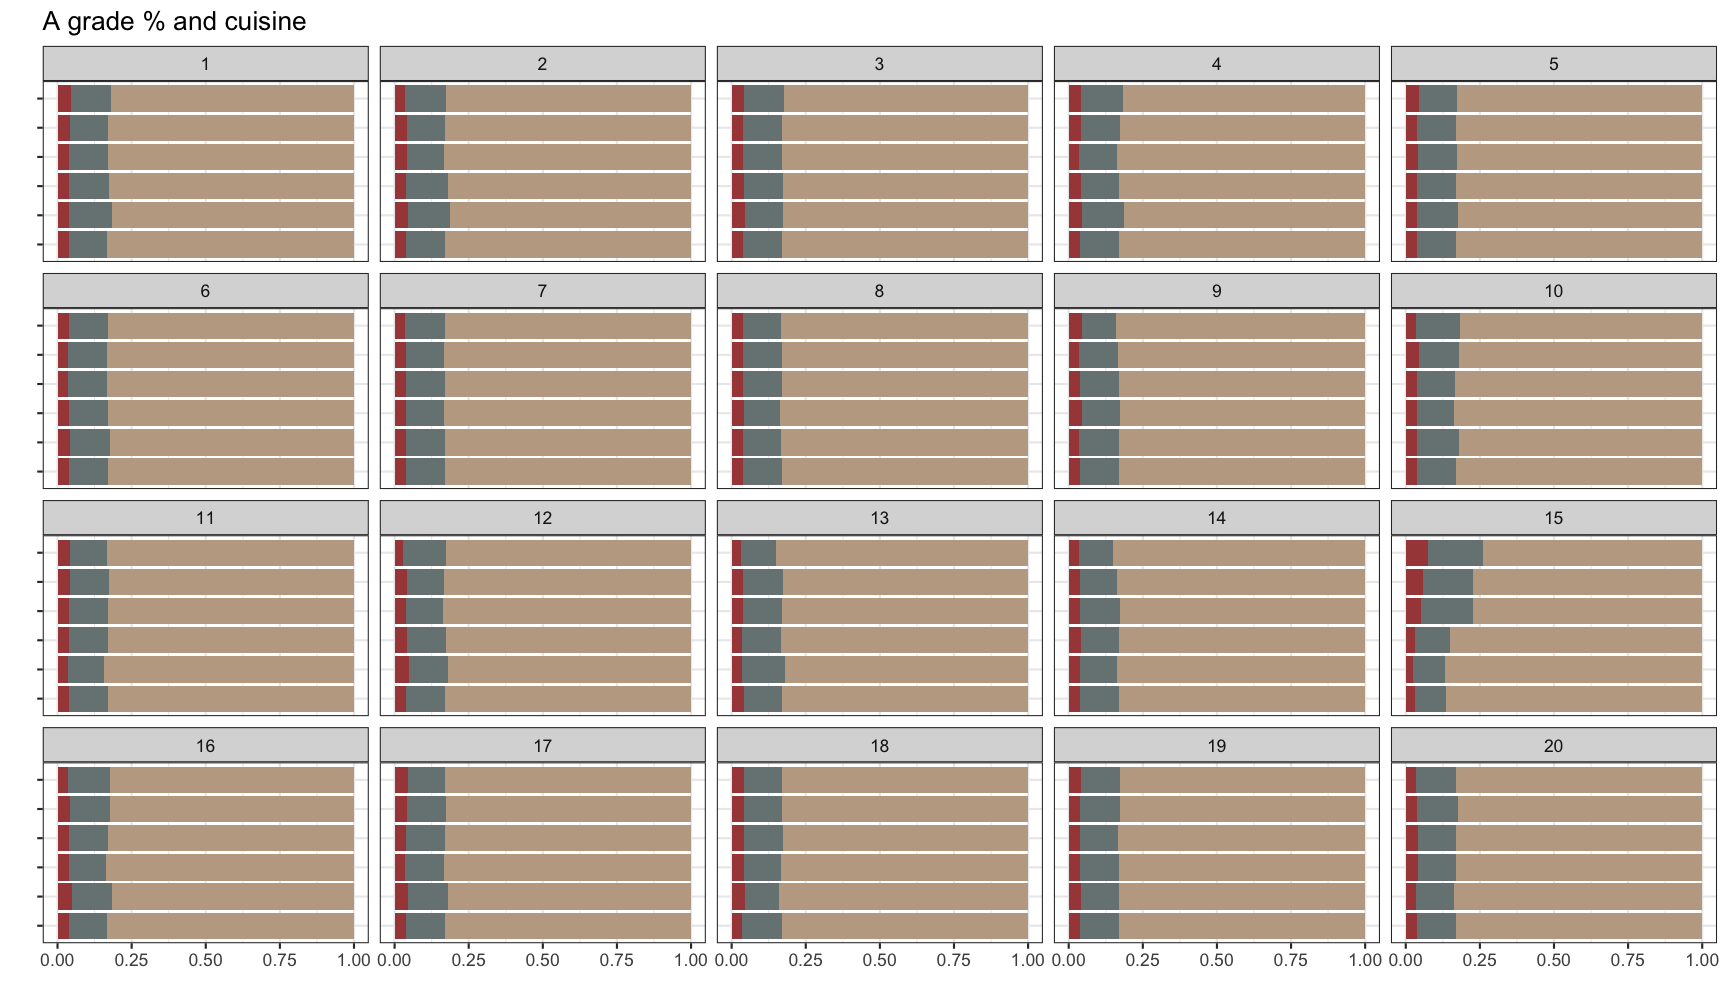
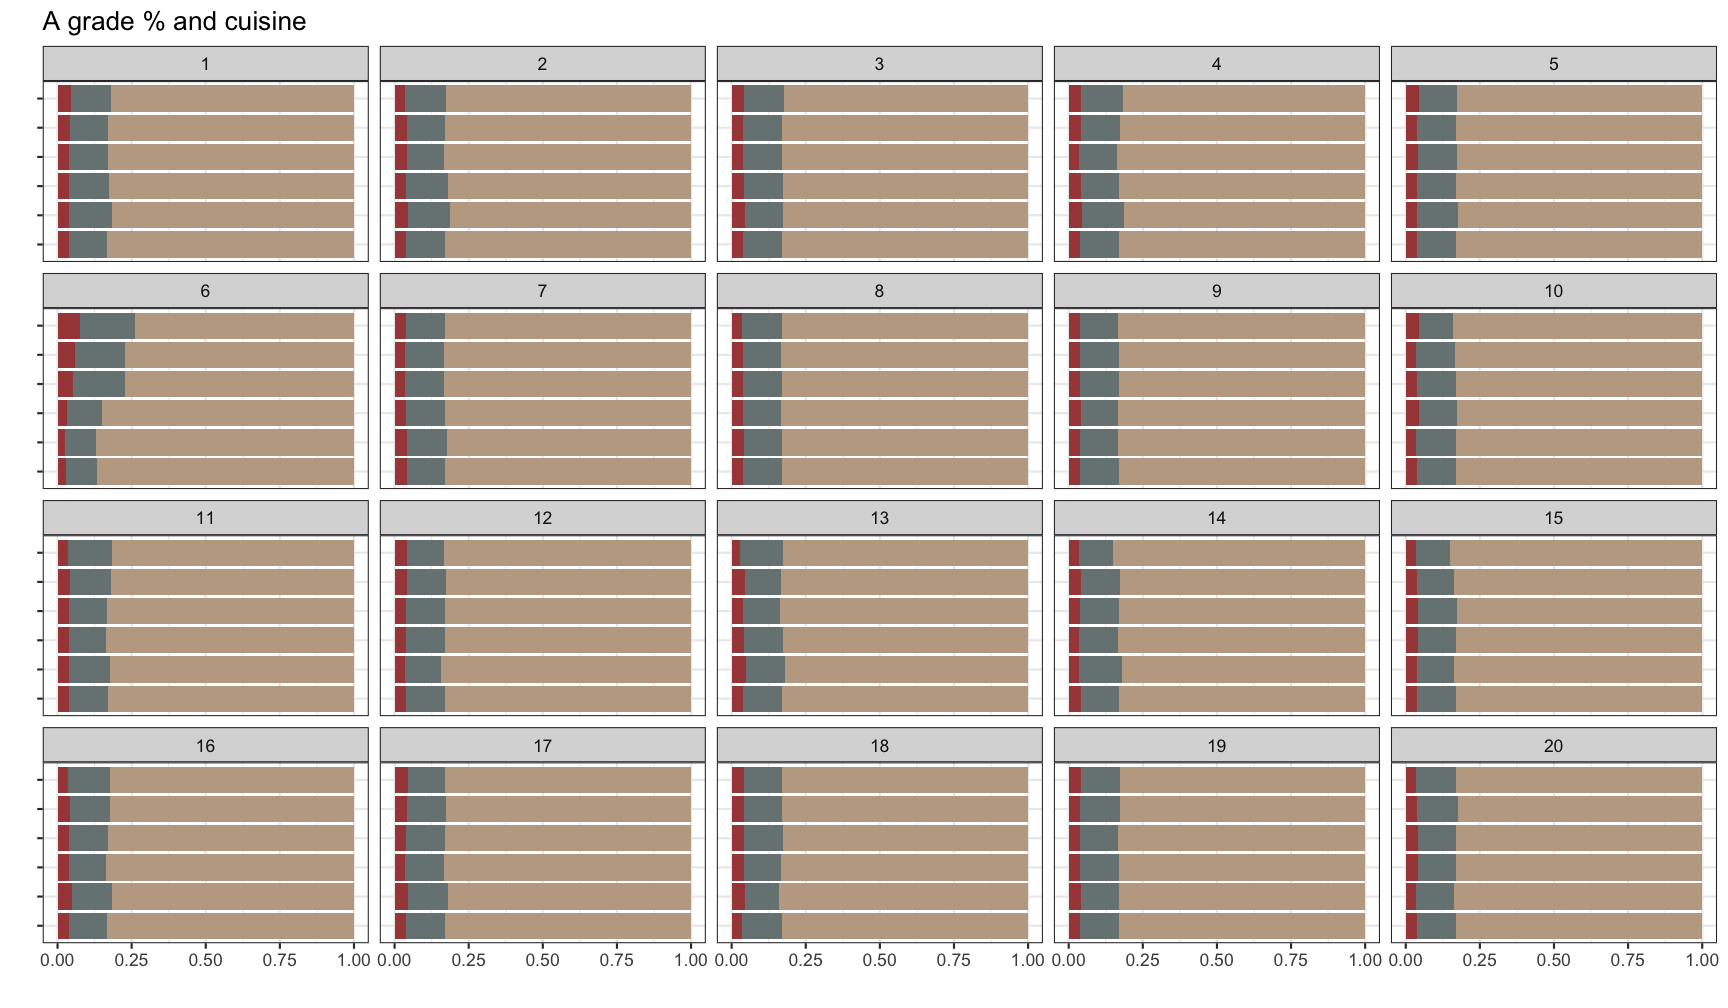
final version

diff --git a/static/files/NYCR/slides.html b/static/files/NYCR/slides.html
@@ -15,7 +15,7 @@ class: center, middle, inverse, title-slide
 # <a href="http://dicook.github.io/nullabor/">nullabor</a>
 ## tools for testing whether what you see in plots is really there
 ### Di Cook, Monash University
-### NYC R meetup - June 6, 2019 <br> <a href="http://dicook.org/NYCR/slides.html">Slides here</a>
+### NYC R meetup - June 6, 2019 <br> Slides: <a href="https://dicook.org/files/NYCR/slides.html">https://dicook.org/files/NYCR/slides.html</a>
 
 ---
 
@@ -70,6 +70,7 @@ class: center, middle
 
 - Plots of data allow us to uncover the unexpected, but it needs to be calibrated against what might be seen by chance, if there really is no underlying pattern
 - Classical statistical inference allows computing probabilities, of this being a likely value for the statistic, if there really is no structure
+---
 
 # Post-hoc inference
 
@@ -170,6 +171,8 @@ ggplot(lineup(null_permute("grade"), nyc_cuisine),
 
 Null generating mechanism: Permuting the values of grade
 
+True data plot is in position 6.
+
 ---
 class: center, middle
 
@@ -200,6 +203,37 @@ ggplot(nyc_yrmth_l, aes(x=yrmth, y=pct)) +
 
 Null generating mechanism: Simulating from an ARIMA model with same parameters
 
+True data plot is in position 7.
+---
+class: center, middle
+
+
+# Pick the plot that is most different from the others
+
+---
+
+
+
+
+&lt;img src="slides_files/figure-html/unnamed-chunk-7-1.png" width="100%" /&gt;
+
+---
+
+```
+nyc_boro_grade_l &lt;- lineup(null_dist("grade_A", "unif",
+  params=list(min=0, max=1)), nyc_boro_grade, n=6)
+nyc_boro_grade_l_p &lt;- nyc_boro_grade_l %&gt;% 
+  group_by(.sample, boro) %&gt;%
+  summarise(prop_A = length(grade_A[grade_A&gt;0.174])/length(grade_A))
+```
+
+`\(H_o:\)` The percentage of restaurants awarded an A grade in each boro is the same (82.5%)
+
+`\(H_a:\)` Its not
+
+Null generating mechanism: Simulating from an binomial model with same parameters
+
+True data plot is in position 3
 
 ---
 # Computing p-value
@@ -213,7 +247,7 @@ pvisual(5, 50)
 
 ```
 ##      x simulated     binom
-## [1,] 5    0.1704 0.1036168
+## [1,] 5    0.1711 0.1036168
 ```
 
 ---
@@ -239,11 +273,15 @@ visual_power(turk_results)
 
 Useful for objectively determining best plot design, see [Hofmann et al (2012)](https://ieeexplore.ieee.org/document/6327249)
 
+
 ---
 # What did we learn about NYC restaurant quality?
 
+?
+
 - There is a difference in percentage A, B, C between cuisines
 - There is no temporal trend
+- Some boroughs are more A class than others
 
 ---
 
